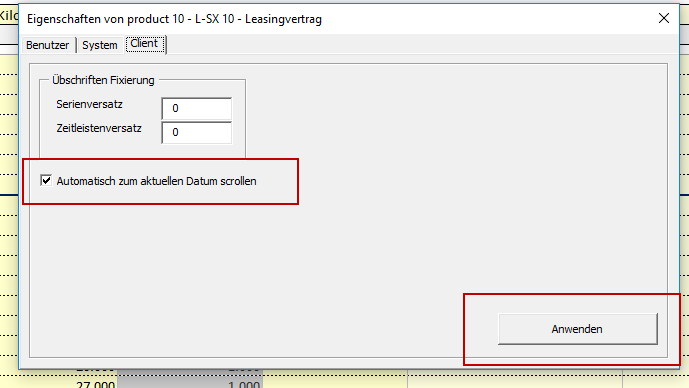
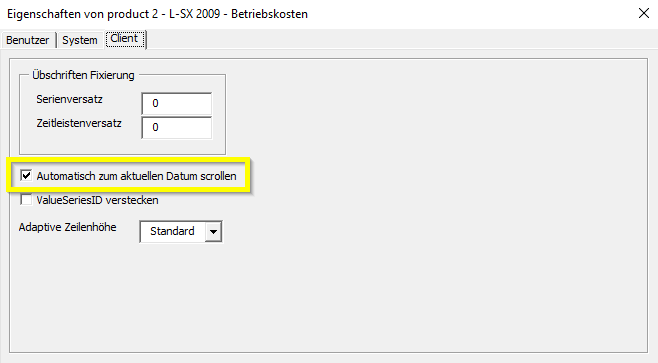
update new features

Changed region(s): [[0.0, 0.0, 1.0, 1.0], [0.2128, 0.6061, 0.3343, 0.6667], [0.6687, 0.7576, 0.6991, 0.7879]]

diff --git a/der-excel-client/templates/template-konfigurieren/ansicht.md b/der-excel-client/templates/template-konfigurieren/ansicht.md
@@ -1,32 +1,33 @@
 #### *Ansicht des Templates/ Produkte definieren*
-Wenn Sie ein Template zum ersten Mal betreten, sind die Ansichtseinstellungen ***Fensterfixierung*** und ***Automatisch zum aktuellen Datum scrollen*** bereits vordefiniert. Sie können diese Voreinstellungen über den ActionLink im Menüpunkt [Eigenschaften](../../produktlinie/eigenschaften.md) anpassen.
 
-**Automatisch zum aktuellen Datum scrollen**
+Wenn Sie ein Template zum ersten Mal betreten, sind die Ansichtseinstellungen ***Fensterfixierung*** und ***Automatisch zum aktuellen Datum scrollen*** bereits vordefiniert. Sie können diese Voreinstellungen und auch weitere Optionen über den ActionLink (Produktseite) im Menüpunkt **Eigenschaften** anpassen.
 
-Wenn Sie sich aktuell im Monat März des Jahres 2017 befinden, springt die Zeitleiste beim Betreten des Templates automatisch in diesen Monat. D.h. die erste Zeile, die Ihnen im Wertebereich angezeigt wird, ist der März 2017, selbst wenn die Zeitleiste Ihres Templates vielleicht schon im Januar 2016 beginnt. Wenn Sie diese automatische Scrollen deaktivieren möchten, gehen Sie wie folgt vor:
-
-1) Klicken Sie im Produkt auf den ActionLink.
+1) Klicken Sie auf der Produktseite auf den ActionLink.
 
 ---
 ![](/Pictures/Excel-Client/Templates/Template konfigurieren/Ansicht/ansicht_1.png)
 
 ---
 
-2) Klicken Sie auf die Option **Eigenschaften**.
+2) Wählen Sie den Menüpunkt **Eigenschaften**.
 
 ---
 ![](/Pictures/Excel-Client/Templates/Template konfigurieren/Ansicht/ansicht_2.png)
 
 ---
 
-3) Klicken Sie auf den Reiter **Client**.
+3) Öffnen Sie im sich öffnenden Dialogfenster **Eigenschaften** den Tab **Client**.
 
 ---
 ![](/Pictures/Excel-Client/Templates/Template konfigurieren/Ansicht/ansicht_3.png)
 
---- 
+---
+
+**Automatisch zum aktuellen Datum scrollen**
+
+Wenn Sie sich aktuell im Monat März des Jahres 2017 befinden, springt die Zeitleiste beim Betreten des Templates automatisch in diesen Monat. D.h. die erste Zeile, die Ihnen im Wertebereich angezeigt wird, ist der März 2017, selbst wenn die Zeitleiste Ihres Templates vielleicht schon im Januar 2016 beginnt. Wenn Sie diese automatische Scrollen deaktivieren möchten, gehen Sie wie folgt vor:
  
-4) Entfernen Sie das Häckchen **Automatisch zum aktuellen Datum scrollen** und bestätigen Sie mit **Anwenden**.
+1) Entfernen Sie das Häckchen **Automatisch zum aktuellen Datum scrollen** und bestätigen Sie mit **Anwenden**.
 
 ---
 ![](/Pictures/Excel-Client/Templates/Template konfigurieren/Ansicht/ansicht_4.png)
@@ -37,44 +38,59 @@ Wenn Sie sich aktuell im Monat März des Jahres 2017 befinden, springt die Zeitl
 
 Wenn Sie im Wertebereich hoch oder runter, nach rechts oder nach links scrollen, ist stets nur der Überschriften- und der Zeitleistenbereich fixiert. Sie können Ihre Ansichtseinstellungen aber auch so definieren, dass bspw. auch die erste Spalte oder die ersten beiden Zeilen im Wertebereich fixiert sind und Ihnen während des Scrollvorgangs stets angezeigt werden. Gehen Sie dazu wie folgt vor:
  
-1) Klicken Sie im Produkt auf den ActionLink.
+1) Geben Sie die Anzahl der Spalten und Zeilen ein, um die Sie die Fixierung gegenüber der der Ausgangsposition verschieben möchten und klicken Sie auf **Anwenden**.
 
 ---
 ![](/Pictures/Excel-Client/Templates/Template konfigurieren/Ansicht/ansicht_5.png)
 
 ---
 
-2) Klicken Sie auf die Option **Eigenschaften**.
+2) Die neue Fixierung wurde auf das Template angewendet.
 
 ---
 ![](/Pictures/Excel-Client/Templates/Template konfigurieren/Ansicht/ansicht_6.png)
 
 ---
 
-3) Klicken Sie auf den Reiter **Client**.
+> **Hinweis:** Sie erkennen den Fixierungsbereich an den dünnen grauen horizontalen und vertikalen Linien.
 
 ---
 ![](/Pictures/Excel-Client/Templates/Template konfigurieren/Ansicht/ansicht_7.png)
 
 ---
 
-4) Geben Sie die Anzahl der Spalten und Zeilen ein, um die Sie die Fixierung gegenüber der der Ausgangsposition verschieben möchten und klicken Sie auf **Anwenden**.
+**ValueseriesID ausblenden**
+
+Um die ID der Valueseries auszublenden markieren Sie den Auswahlkasten **ValueSeriesID verstecken**.
 
 ---
 ![](/Pictures/Excel-Client/Templates/Template konfigurieren/Ansicht/ansicht_8.png)
 
 ---
 
-5) Die neue Fixierung wurde auf das Template angewendet.
+**Adaptive Zeilenhöhe**
+
+Bei der adaptiven Zeilenhöhe sind die automatischen Zeilenümbruche innerhalb der Zellen gemeint. Enthält eine Zelle lange Formeln bzw. Texte ist bei aktivierter adaptiven Zeilenhöhe stets der gesamte Inhalt sichtbar. Um die Einstellung zu ändern klicken Sie auf das Drop-Down Menü. Sie können wählen ziwschen **AN**, **AUS** und **Standard**.
 
 ---
 ![](/Pictures/Excel-Client/Templates/Template konfigurieren/Ansicht/ansicht_9.png)
 
 ---
 
-> **Hinweis:** Sie erkennen den Fixierungsbereich an den dünnen grauen horizontalen und vertikalen Linien.
+>**Hinweis:** In der **Standard**-Option ist die adaptive Zeilenhöhe deaktiviert aber manuelle Zeilenumbrüche werden angezeigt. Bei der Option **AUS** werden manuelle Zeilenumbrüche **nicht** berücksichtigt.
+
+Ein Beispiel für deaktivierte adaptive Zeilenhöhe:
 
 ---
 ![](/Pictures/Excel-Client/Templates/Template konfigurieren/Ansicht/ansicht_10.png)
 
 ---
+
+Ein Beispiel für aktivierte adaptive Zeilenhöhe:
+
+---
+![](/Pictures/Excel-Client/Templates/Template konfigurieren/Ansicht/ansicht_11.png)
+
+---
+
+>**Hinweis:** Jene vorgestellten Anpassungen wirken sich auch auf die Ansicht im Web-Client aus.

diff --git a/der-excel-client/fabrik/programmeinstellungen.md b/der-excel-client/fabrik/programmeinstellungen.md
@@ -161,3 +161,23 @@ Folgende Optionen stehen Ihnen zur Verfügung:
 | Zeilenüberschriften| Zeilenüberschriften, die Sie neu eingeben oder ändern, werden markiert. |
 | Spaltenüberschriften| Spaltenüberschriften, die Sie neu eingeben oder ändern, werden markiert. |
 | Kalkulierte Einträge| Zellen, die Formeln enthalten und die durch Änderung der Bezugswerte neue Ergebnisse berechnen, werden markiert. |
+
+#### Einstellungen exportieren
+
+Sie können Ihre Einstellungen als .ini-Datei exportieren lassen. Wenn Sie bspw. auf eine neuere Version der DataFactory umsteigen oder eine Neuinstallation durchführen, dann haben Sie mit der Konfigurationsdatei die Möglichkeit Ihre Einstellungen auf die neue Installation zu importieren.
+
+Klicken Sie im Reiter **Anzeige** auf **Exportieren**.
+
+>**Hinweis:** Mit der Option **Ungenutzte Schlüssel einbeziehen** werden auch die Variablen in die Konfigurationsdatei kopiert die noch die Standardwerte enthalten. Sie haben dann die Möglichkeit mit einem Texteditor die Einstellungen weiter anzupassen.
+
+---
+![](/Pictures/Excel-Client/Fabrik/Programmeinstellungen/programmeinstellungen_16.png)
+
+---
+
+Es öffnet sich ein Speicherdialog. Bestimmen Sie sowohl Speicherort als auch Dateiname und bestätigen Sie mit **Speichern**.
+
+---
+![](/Pictures/Excel-Client/Fabrik/Programmeinstellungen/programmeinstellungen_17.png)
+
+---

diff --git a/der-excel-client/suche.md b/der-excel-client/suche.md
@@ -21,4 +21,4 @@ Doppelklicken Sie auf ein Ergebnis um den entsprechenden Pfad zu öffnen.
 
 ---
 
->**Hinweis:** Das Dialogfenster schließt sich beim Öffnen eines Suchergebnisses automatisch.
+>**Hinweis:** Das Dialogfenster schließt sich beim Öffnen eines Suchergebnisses automatisch. Ihre Suchergebnisse bleiben aber bis zum Neustart des Clients zwischengespeichert.
